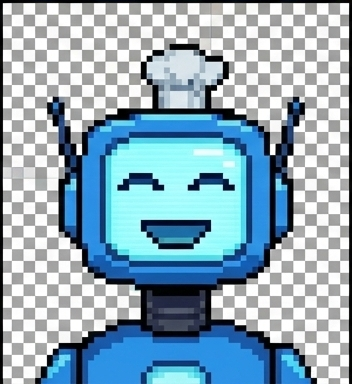
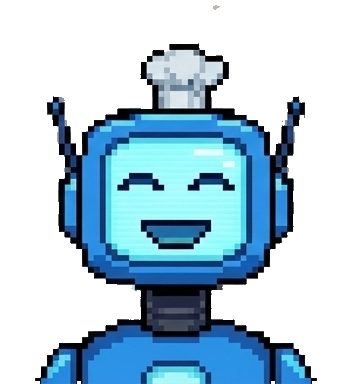
docs: pitch, play link and a recorded loop; Chip without the baked checkerboard
The README opens with the pitch, a link to play it and a loop of Betty's
first job, recorded by demo/capture.mjs (npm run media:capture).
showcase.json lists it for the portfolio.

Chip's sprites had a checkerboard "transparency" painted into the pixels;
it's now real transparency.

diff --git a/README.md b/README.md
@@ -1,15 +1,10 @@
 # Gig Quest
 
-**"Code for Rent: Your Dev Origin Story"**
+Learn JavaScript by taking freelance gigs to make rent. Clients like Betty the baker bring you real problems, Chip the robot guide explains the idea, and you solve each task with real code in the editor that powers VS Code, checked the moment you finish.
 
-A story-driven educational game where you learn JavaScript by taking freelance programming gigs to make rent.
+**[Play it in your browser](https://gigquest.soleone.xyz)**, no sign-up: Betty's first job is five short tasks.
 
-![Status](https://img.shields.io/badge/status-active%20development-brightgreen)
-![Platform](https://img.shields.io/badge/platform-web%20browser-blue)
-![Tech](https://img.shields.io/badge/Next.js-16-black)
-![License](https://img.shields.io/badge/license-MIT-green)
-
----
+![Betty's first job: the briefing, Betty and Chip explaining the task, the answer typed into the editor and passed, then the next task](demo/media/demo.webp)
 
 ## 🎮 What is Gig Quest?
 
@@ -40,7 +35,7 @@ Traditional coding tutorials are boring. Game Dev Story lets you "pretend" to pr
 
 ```bash
 # Clone the repository
-git clone https://github.com/yourusername/gigquest.git
+git clone https://github.com/Soleone/gigquest.git
 cd gigquest
 
 # Install dependencies
